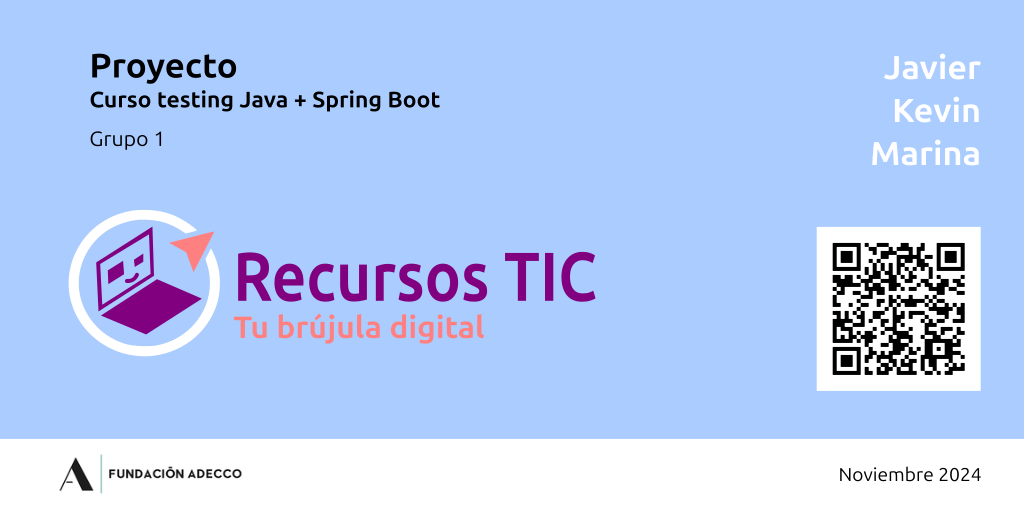
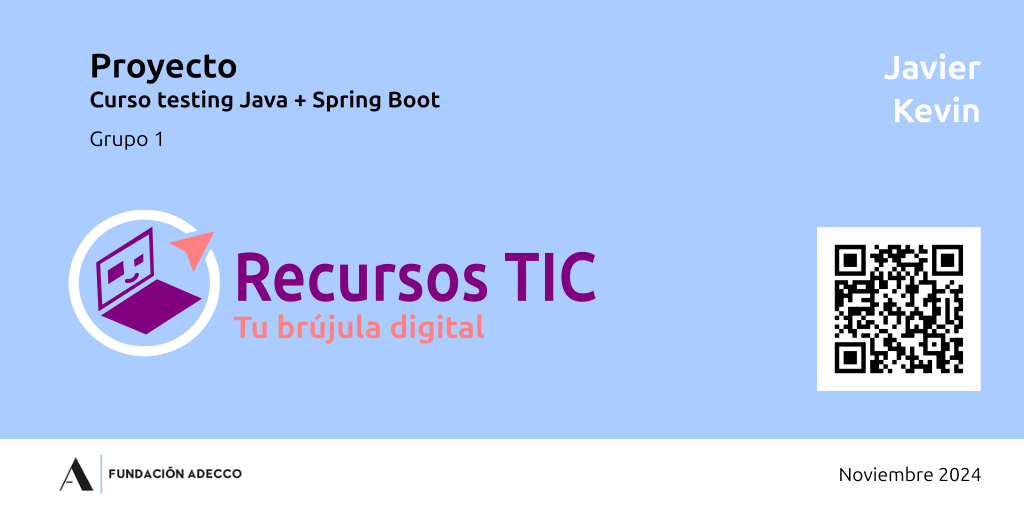
QR

Changed region(s): [[0.8125, 0.4688, 0.9688, 0.75], [0.8438, 0.2812, 0.9688, 0.3438]]

diff --git a/src/main/resources/templates/info/project.html b/src/main/resources/templates/info/project.html
@@ -49,7 +49,7 @@
 
         <section>
             <h2>Autores</h2>
-            <p>Javier García, Kevin Zamora, Marina García</p>
+            <p>Javier García y Kevin Zamora</p>
 
             <h2>Profesor</h2>
             <p>Alan Sastre</p>
@@ -65,7 +65,7 @@
                 <li>Planificación del proyecto y coordinación</li>
                 <li>Aplicación web con Java</li>
                 <li>Creación, lectura, modificación y borrado de Recursos TIC, Listas, Valoraciones y Usuarios</li>
-                <li>Gestión de BBDD</li>
+                <li>Gestión de BB.DD.</li>
                 <li>Interfaz con plantillas HTML y CSS</li>
                 <li>Gestión de errores y excepciones</li>
                 <li>Test unitarios, de integración y funcionales</li>

diff --git a/README.md b/README.md
@@ -16,6 +16,8 @@ Los tests han sido realizados con JUnit, Mockito, Selenium, JaCoCo, GitHub Actio
 
 La planificación y codificación se han llevado a cabo usando Trello y GitHub.
 
+![Banner](src/main/resources/static/img/banner.png)
+
 ## Destacados
 
 Además de los requisitos del MVP, se han incluido las siguientes funcionalidades:
@@ -55,8 +57,14 @@ Para generar un informe de cobertura de testing, se puede ejecutar el comando `m
 
 # Autores
 
-Desarrollado por [Javier](https://github.com/JavGuerra), [Kevin](https://github.com/kevinzamoraa) y [Marina](https://github.com/MarinaVallejo89)
+Desarrollado por [Javier](https://github.com/JavGuerra) y [Kevin](https://github.com/kevinzamoraa).
 
 # Licencia
 
 Este proyecto está licenciado bajo licencia [GPL v.3](https://www.gnu.org/licenses/gpl-3.0.html).
+
+# Saber más
+
+Artículos informativos elaborados por el autor relacionados con esta aplicación:
+
+- [Spinner loader en Thymeleaft](https://javguerra.github.io/blog/loader-thymeleaft/)  
